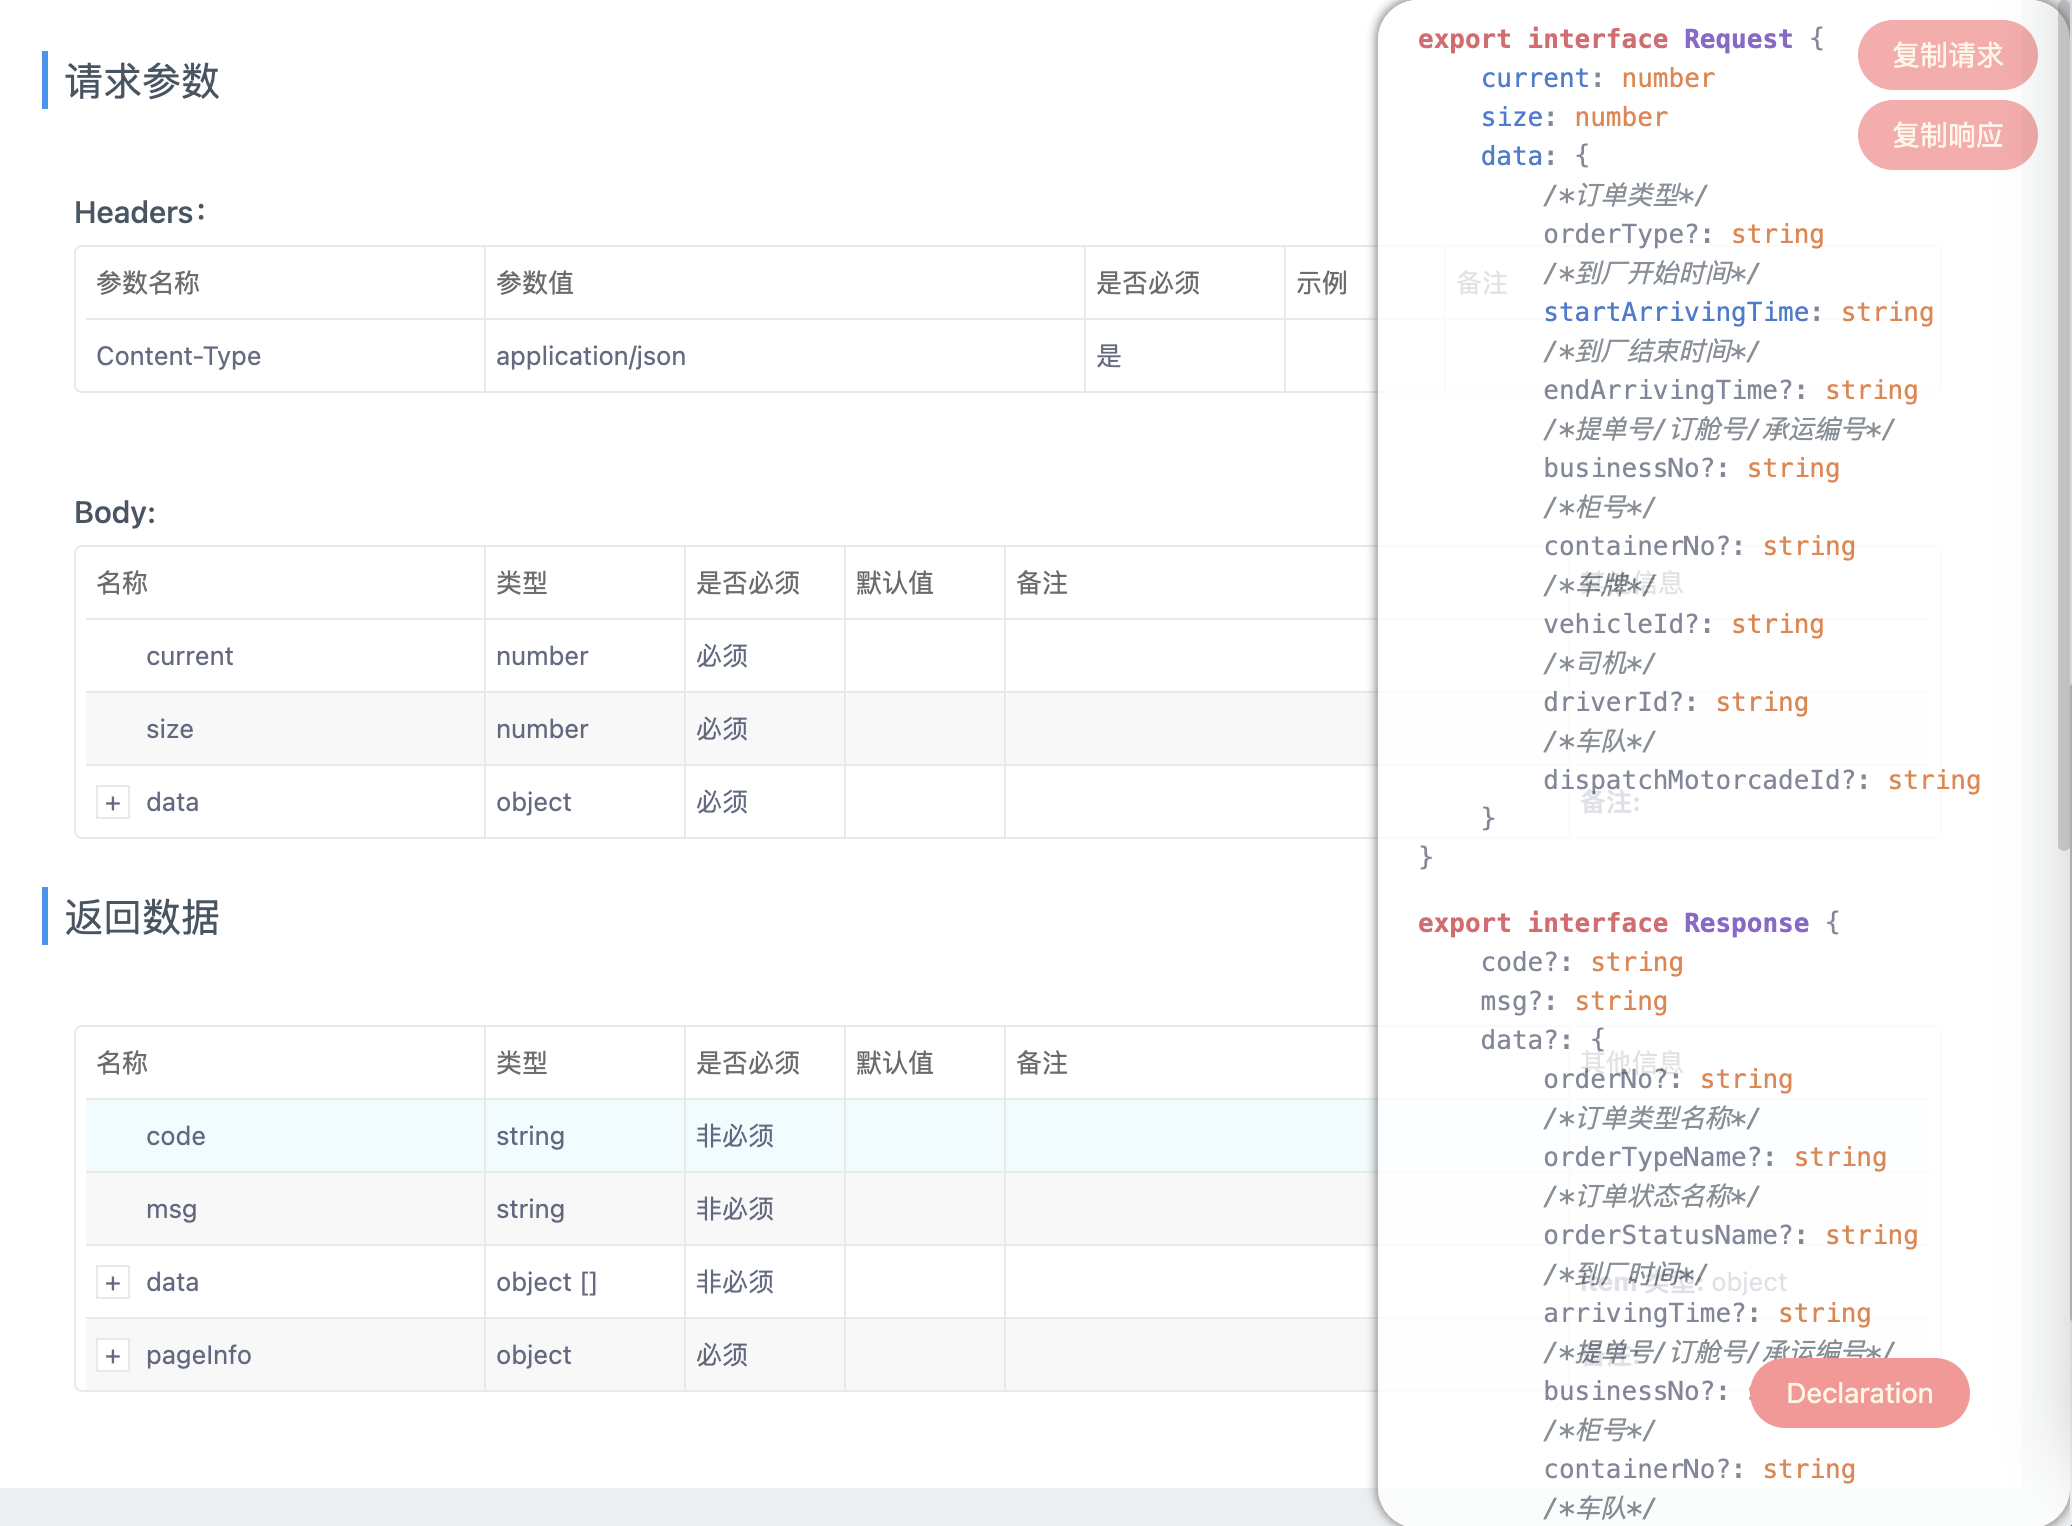
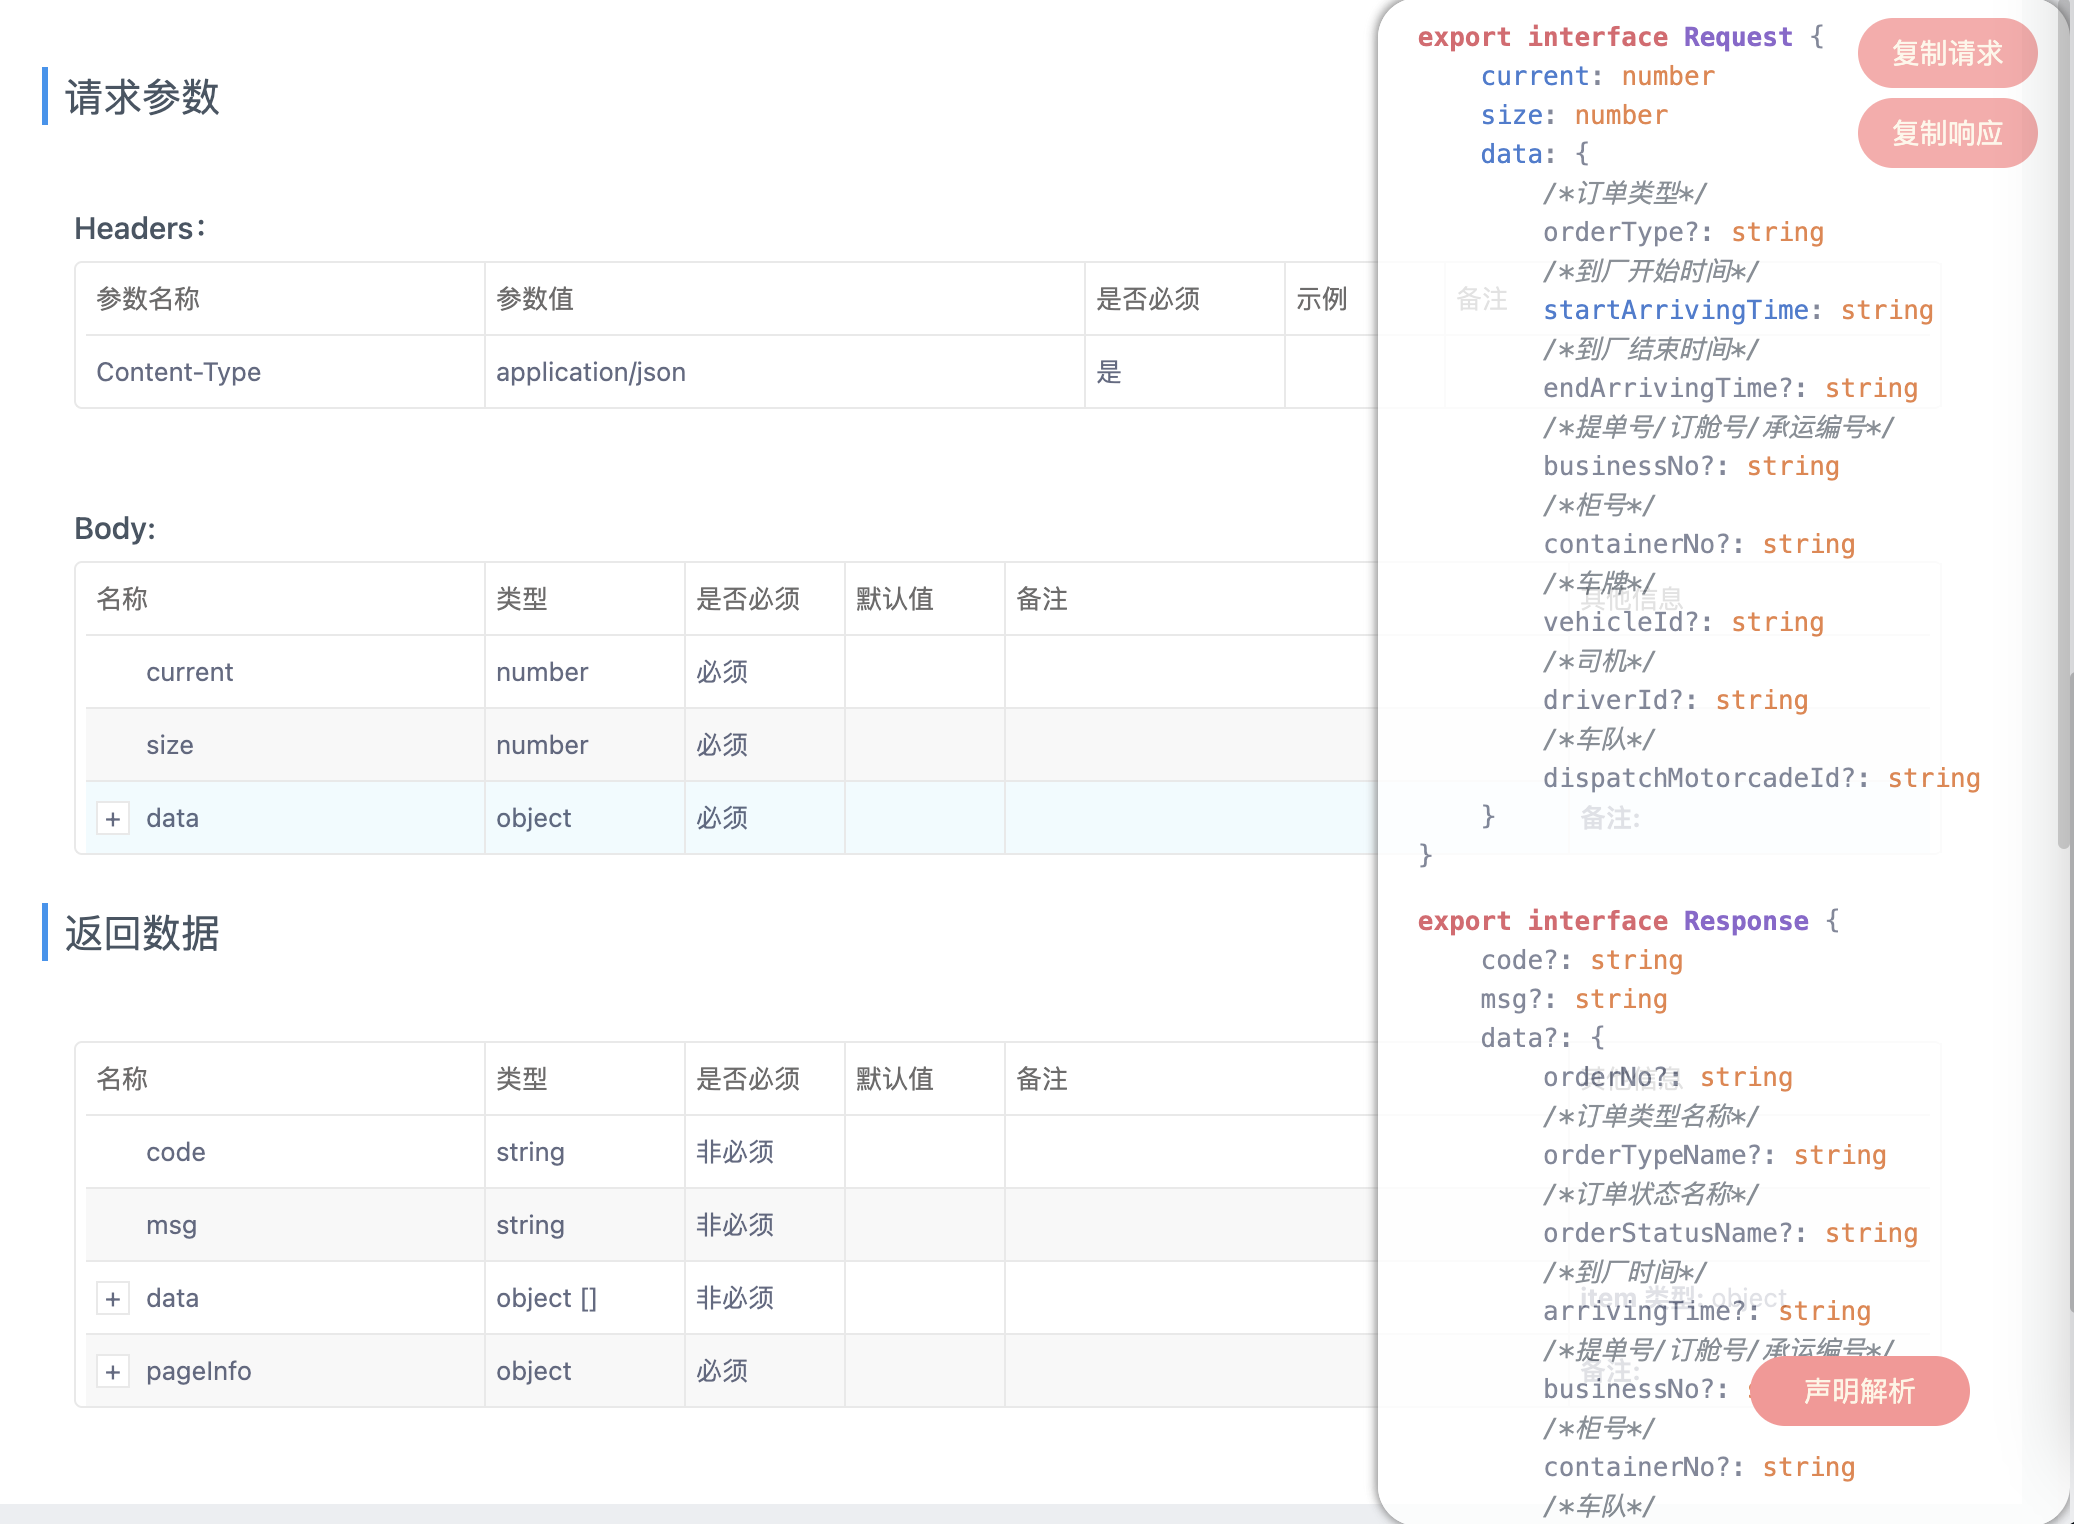
docs: update readme

diff --git a/src/main.ts b/src/main.ts
@@ -53,7 +53,7 @@ function main() {
   let responseCode = ''
 
   const pluginButton = createDiv({
-    text: 'Declaration',
+    text: '声明解析',
     class: 'plugin-button',
     onClick: async (event) => {
       event.stopPropagation()
